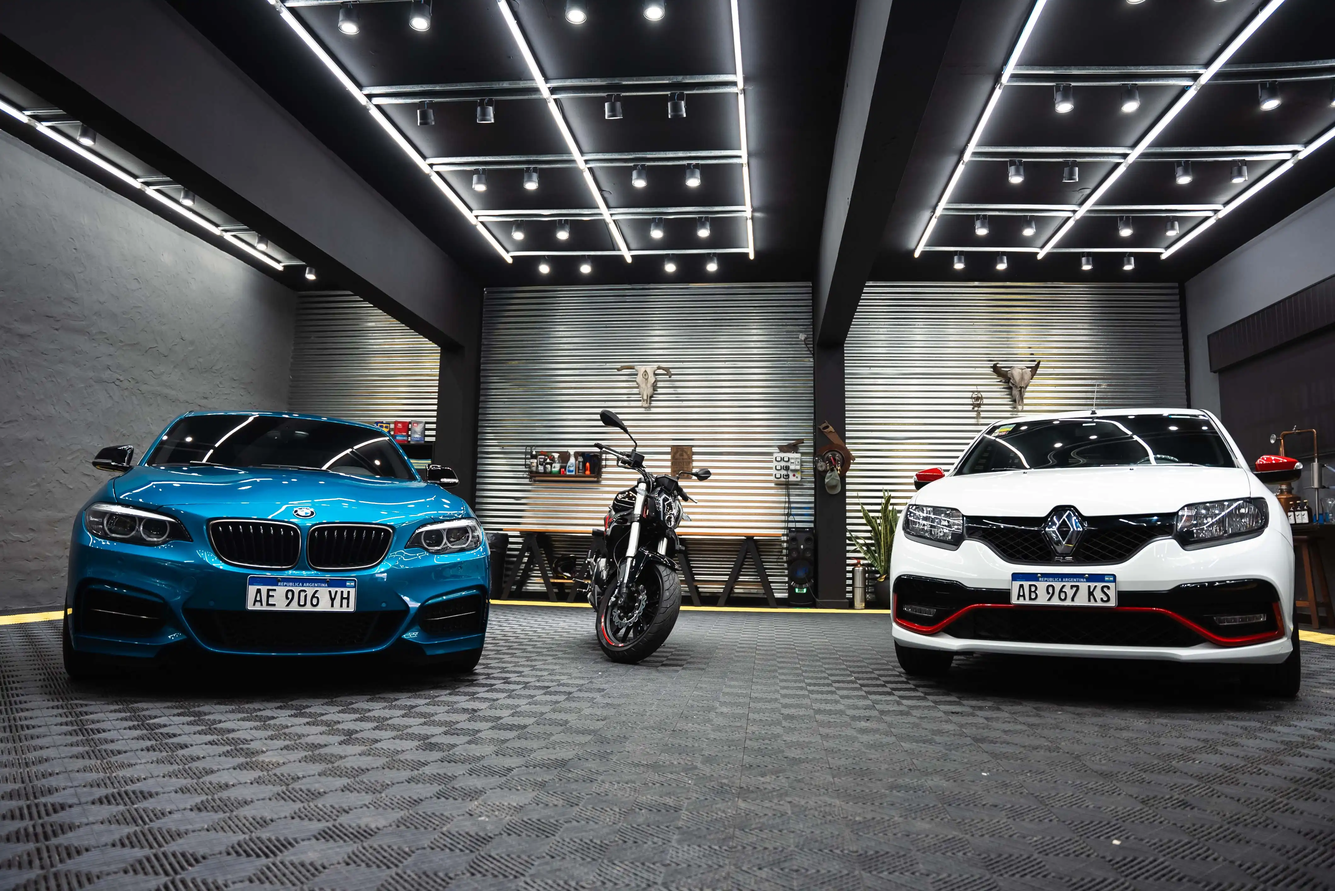
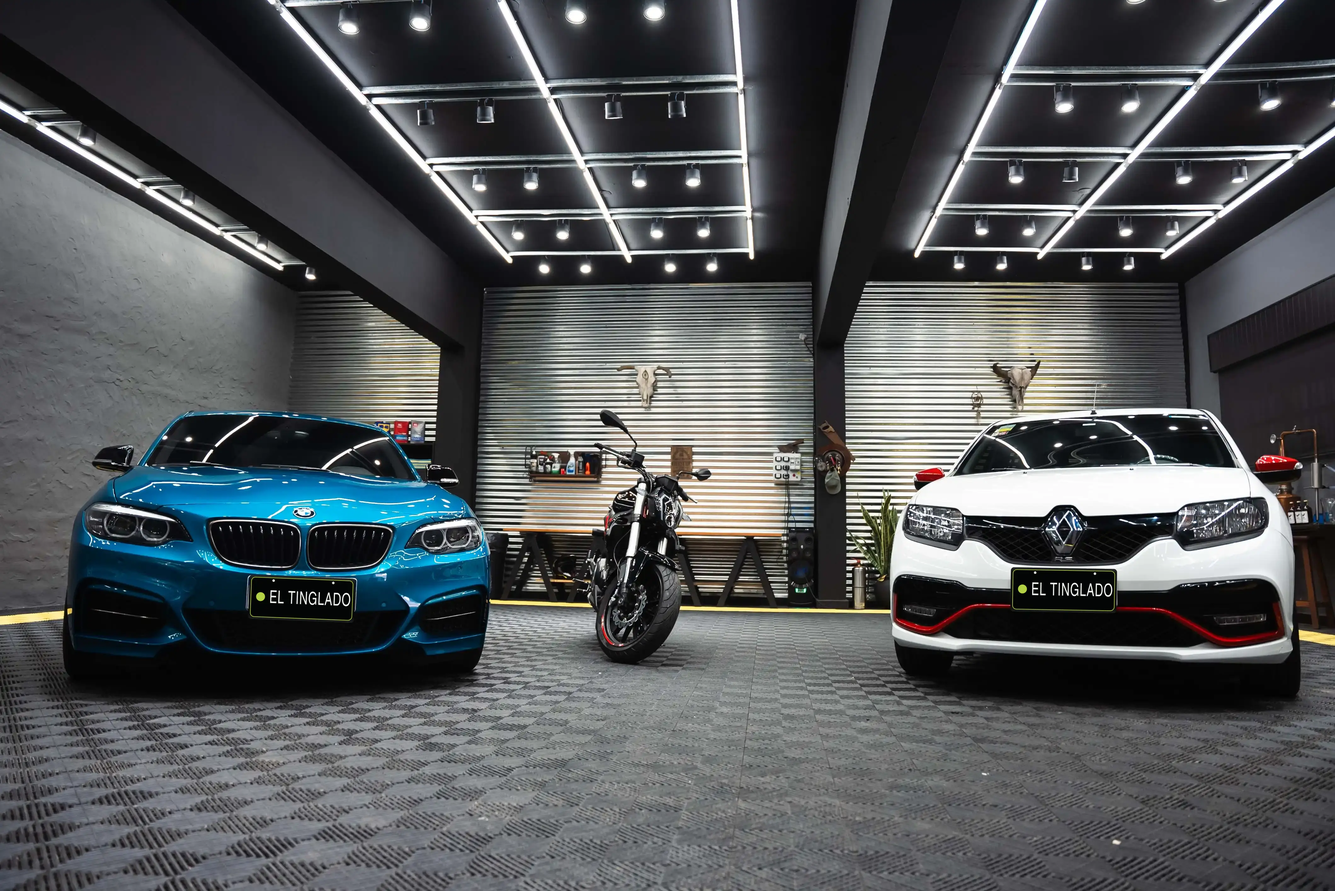
feat(trabajos): actualizar imágenes del taller y proyecto destacado
- Actualiza la imagen principal de la sección Taller.
- Agrega nuevas fotografías de BMW y Volkswagen para la galería de trabajos.
- Reemplaza la imagen principal del proyecto destacado por un Volkswagen Golf gris.
- Mantiene el detalle del tratamiento cerámico del BMW como contenido complementario.
- Separa los datos visuales principal y de detalle del proyecto destacado.
- Actualiza el componente de proyecto destacado para consumir la nueva estructura de datos.
- Conserva la galería, los textos y el resto de la lógica existente.

Changed region(s): [[0.1868, 0.6215, 0.2802, 0.7147], [0.7472, 0.6215, 0.8406, 0.6836]]

diff --git a/src/features/landing/components/FeaturedProject.jsx b/src/features/landing/components/FeaturedProject.jsx
@@ -1,8 +1,9 @@
 import { useReveal } from "../hooks/useReveal.js";
 
-function FeaturedProject({ onContact, project }) {
+function FeaturedProject({ onContact, projects }) {
   const { ref: imageRef, isVisible: isImageVisible } = useReveal();
   const { ref: contentRef, isVisible: isContentVisible } = useReveal();
+  const { primary: primaryProject, detail: detailProject } = projects;
 
   return (
     <article className="grid gap-6 md:grid-cols-12 md:items-start md:gap-8">
@@ -13,10 +14,10 @@ function FeaturedProject({ onContact, project }) {
         ref={imageRef}
       >
         <img
-          alt={project.primaryAlt}
+          alt={primaryProject.alt}
           className="aspect-16/10 h-full w-full object-cover transition-transform duration-500 ease-[cubic-bezier(0.22,1,0.36,1)] group-hover:scale-105 max-md:active:scale-105"
           loading="lazy"
-          src={project.primaryImage}
+          src={primaryProject.image}
         />
       </div>
       <div
@@ -30,20 +31,20 @@ function FeaturedProject({ onContact, project }) {
           Trabajo destacado
         </p>
         <h3 className="mt-2 font-heading text-[clamp(1.6rem,2.4vw,2.3rem)] leading-[1.08] font-bold text-navy">
-          {project.vehicle}
+          {detailProject.vehicle}
         </h3>
         <p className="mt-3 text-base font-semibold text-navy">
-          {project.service}
+          {detailProject.service}
         </p>
         <p className="mt-4 leading-[1.7] text-[#6E6A64]">
-          {project.description}
+          {detailProject.description}
         </p>
         <div className="mt-6 overflow-hidden rounded-2xl bg-navy">
           <img
-            alt={project.detailAlt}
+            alt={detailProject.alt}
             className="aspect-square h-full w-full object-cover"
             loading="lazy"
-            src={project.detailImage}
+            src={detailProject.image}
           />
         </div>
         <a

diff --git a/src/features/landing/data/projects.js b/src/features/landing/data/projects.js
@@ -1,5 +1,5 @@
-const bmwPrimaryImage = new URL(
-  "../../../assets/images/Trabajos/bmw1.webp",
+const volkswagenGolfImage = new URL(
+  "../../../assets/images/Trabajos/vwGris2.webp",
   import.meta.url,
 ).href;
 const bmwDetailImage = new URL(
@@ -31,17 +31,21 @@ const wheelAfterImage = new URL(
   import.meta.url,
 ).href;
 
-export const featuredProject = {
-  id: "bmw",
-  vehicle: "BMW",
-  service: "Tratamiento cerámico",
-  description:
-    "Tratamiento cerámico para potenciar el brillo, los reflejos y la protección de la pintura.",
-  primaryImage: bmwPrimaryImage,
-  detailImage: bmwDetailImage,
-  primaryAlt:
-    "BMW azul con tratamiento cerámico bajo la iluminación del taller",
-  detailAlt: "Detalle del acabado cerámico aplicado sobre un BMW azul",
+export const featuredProjects = {
+  primary: {
+    id: "volkswagen-golf",
+    image: volkswagenGolfImage,
+    alt: "Volkswagen Golf gris con acabado detallado bajo la iluminación del taller",
+  },
+  detail: {
+    id: "bmw",
+    vehicle: "BMW",
+    service: "Tratamiento cerámico",
+    description:
+      "Tratamiento cerámico para potenciar el brillo, los reflejos y la protección de la pintura.",
+    image: bmwDetailImage,
+    alt: "Detalle del acabado cerámico aplicado sobre un BMW azul",
+  },
 };
 
 export const galleryProjects = [

diff --git a/src/features/landing/components/ProjectsSection.jsx b/src/features/landing/components/ProjectsSection.jsx
@@ -1,4 +1,4 @@
-import { featuredProject, galleryProjects, motorcycleProject, wheelProject } from "../data/projects.js";
+import { featuredProjects, galleryProjects, motorcycleProject, wheelProject } from "../data/projects.js";
 import { useReveal } from "../hooks/useReveal.js";
 import Container from "../../../shared/ui/Container.jsx";
 import SectionHeading from "../../../shared/ui/SectionHeading.jsx";
@@ -25,7 +25,7 @@ function ProjectsSection({ onContact }) {
           />
         </div>
         <div className="mt-14 max-md:mt-10">
-          <FeaturedProject onContact={onContact} project={featuredProject} />
+          <FeaturedProject onContact={onContact} projects={featuredProjects} />
           <div className="mt-10 grid grid-cols-2 gap-4 md:grid-cols-3 md:gap-6">
             {galleryProjects.map((project, index) => (
               <ProjectTile
